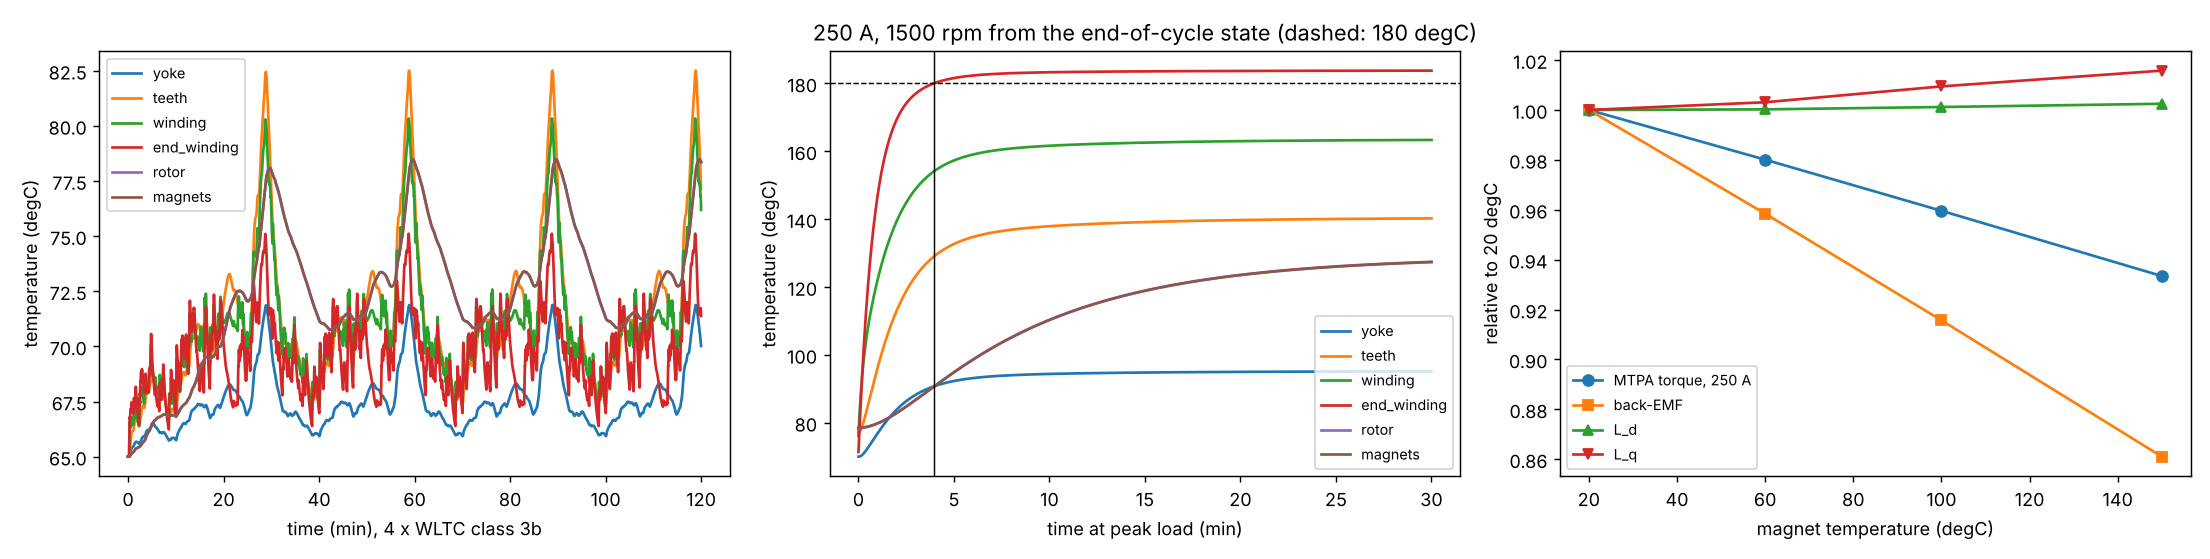
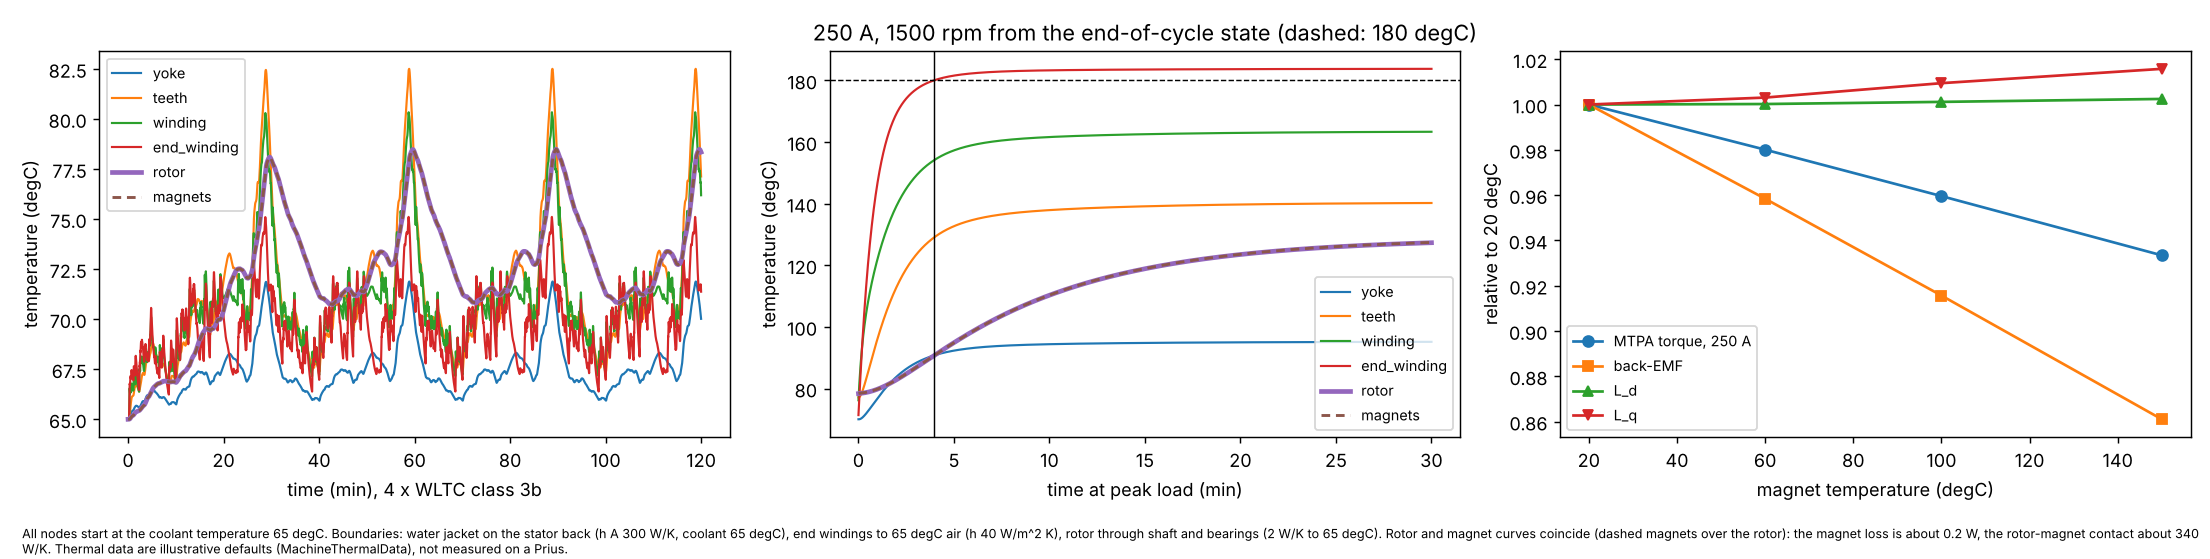
Machines: demagnetisation mesh study inside the magnets, area within 0.9 Hcj, thermal figure caption, magnet grade of the real car unknown

diff --git a/examples/electrodynamics/13_prius_thermal.py b/examples/electrodynamics/13_prius_thermal.py
@@ -37,6 +37,7 @@ from pinneapple_simulation.electromagnetics.machines.drive import (
 from pinneapple_simulation.electromagnetics.machines.thermal import (
     NDFEB_HCJ_MIN_KAM,
     demagnetisation_margin,
+    demagnetisation_refinement,
     intrinsic_coercivity,
     machine_network,
     magnet_temperature_sweep,
@@ -129,6 +130,14 @@ def main() -> dict:
             print(f"{label}, grade {grade}: Hcj {Hcj / 1e3:.0f} kA/m, worst reverse field {d['H_rev_max'] / 1e3:.0f} "
                   f"kA/m, demagnetised fraction {d['demagnetised_fraction']:.4f}", flush=True)
             maps[(label, grade)] = (ms, d)
+    hcj = {gr: intrinsic_coercivity(NDFEB_HCJ_MIN_KAM[gr] * 1e3, T_mag, BETA_HCJ) for gr in ("N", "M", "H", "SH", "UH")}
+    study = demagnetisation_refinement(g, T_mag, cases, hcj, n_gap=N_GAP)
+    for lv in study:
+        print(f"grading {lv['grading']}: {lv['magnet_elements']} magnet elements, "
+              f"{1e3 * lv['magnet_element_size_m']:.2f} mm;",
+              {c: {gr: (round(v["ratio_max"], 3), round(v["demagnetised_fraction"], 4),
+                        round(v["fraction_above_margin"], 4)) for gr, v in r.items()} for c, r in lv["cases"].items()},
+              flush=True)
     res = {"magnet_temperature_sweep": sweep, "iron_split": split, "wltc_cycles": cycles,
            "peak_temperatures_C": hot,
            "mean_losses_W": {"copper": float(np.mean(E["loss_copper"])), "iron": float(np.mean(E["loss_iron"])),
@@ -136,15 +145,16 @@ def main() -> dict:
            "peak_load": {"torque_Nm": op["T"], "rpm": 1500, "copper_W": op["copper"], "iron_W": op["iron"],
                          "magnet_W": op["magnet"], "time_to_180C_winding_s": t_limit},
            "demagnetisation": {"magnet_temperature_C": T_mag, "beta_Hcj_per_K": BETA_HCJ,
-                               "short_circuit_peak_estimate_A": i_sc, "cases": demag},
+                               "short_circuit_peak_estimate_A": i_sc, "cases": demag,
+                               "mesh_refinement": study},
            "seconds": time.perf_counter() - t0}
     OUT.mkdir(exist_ok=True)
     (OUT / "13_prius_thermal.json").write_text(json.dumps(res, indent=1, default=float))
-    _figures(times, T, net.names, ts, Tp, t_limit, sweep, maps, m, list(cases))
+    _figures(times, T, net.names, ts, Tp, t_limit, sweep, maps, m, list(cases), study, T0)
     return res
 
 
-def _figures(times, T, names, ts, Tp, t_limit, sweep, maps, m, labels):
+def _figures(times, T, names, ts, Tp, t_limit, sweep, maps, m, labels, study, T0):
     import matplotlib
 
     matplotlib.use("Agg")
@@ -153,8 +163,10 @@ def _figures(times, T, names, ts, Tp, t_limit, sweep, maps, m, labels):
 
     fig, ax = plt.subplots(1, 3, figsize=(17, 4.3))
     for i, nm in enumerate(names):
-        ax[0].plot(times / 60, T[:, i], label=nm)
-        ax[1].plot(ts / 60, Tp[:, i], label=nm)
+        # rotor and magnets coincide (contact conductance ~340 W/K against ~0.2 W magnet loss): magnets dashed on top
+        kw = {"ls": (0, (3, 2)), "lw": 1.6} if nm == "magnets" else {"lw": 2.6 if nm == "rotor" else 1.2}
+        ax[0].plot(times / 60, T[:, i], label=nm, **kw)
+        ax[1].plot(ts / 60, Tp[:, i], label=nm, **kw)
     ax[0].set_xlabel("time (min), 4 x WLTC class 3b")
     ax[0].set_ylabel("temperature (degC)")
     ax[0].legend(fontsize=8)
@@ -174,7 +186,13 @@ def _figures(times, T, names, ts, Tp, t_limit, sweep, maps, m, labels):
     ax[2].set_xlabel("magnet temperature (degC)")
     ax[2].set_ylabel("relative to 20 degC")
     ax[2].legend(fontsize=8)
-    fig.tight_layout()
+    fig.text(0.01, 0.01, f"All nodes start at the coolant temperature {T0:.0f} degC. Boundaries: water jacket on the "
+             f"stator back (h A 300 W/K, coolant {T0:.0f} degC), end windings to {T0:.0f} degC air (h 40 W/m^2 K), "
+             f"rotor through shaft and bearings (2 W/K to {T0:.0f} degC). Rotor and magnet curves coincide (dashed "
+             "magnets over the rotor): the magnet loss is about 0.2 W, the rotor-magnet contact about 340 W/K. "
+             "Thermal data are illustrative defaults (MachineThermalData), not measured on a Prius.", fontsize=7,
+             wrap=True)
+    fig.tight_layout(rect=(0, 0.07, 1, 1))
     fig.savefig(OUT / "13_prius_thermal.png", dpi=130)
     plt.close(fig)
 
@@ -199,6 +217,29 @@ def _figures(times, T, names, ts, Tp, t_limit, sweep, maps, m, labels):
         fig.colorbar(pc, ax=ax, shrink=0.8, label="H_rev / Hcj (> 1: irreversible)")
     fig.tight_layout()
     fig.savefig(OUT / "13_prius_demag.png", dpi=130)
+    plt.close(fig)
+
+    fig, axs = plt.subplots(1, 3, figsize=(16, 4.4))
+    h = np.array([1e3 * lv["magnet_element_size_m"] for lv in study])
+    for label, ls in zip(labels, ("-", "--"), strict=True):
+        for grade in ("M", "H", "SH"):
+            r = [lv["cases"][label][grade] for lv in study]
+            short = label.split(",")[0] if label.startswith("i_d") else "short circuit"
+            axs[0].plot(h, [x["ratio_max"] for x in r], "o" + ls, label=f"{grade}, {short}")
+            axs[1].plot(h, [100 * x["demagnetised_fraction"] for x in r], "o" + ls, label=f"{grade}, {short}")
+            axs[2].plot(h, [100 * x["fraction_above_margin"] for x in r], "o" + ls, label=f"{grade}, {short}")
+    for a, t in zip(axs, ("worst element H_rev / Hcj", "area with H_rev > Hcj (%)",
+                          "area with H_rev > 0.9 Hcj (%)"), strict=True):
+        a.set_xlabel("mean magnet element size (mm)")
+        a.set_title(t, fontsize=10)
+        a.invert_xaxis()
+    axs[0].axhline(1.0, color="k", lw=0.6)
+    axs[0].legend(fontsize=7)
+    fig.text(0.01, 0.01, "Mesh refinement inside the magnets (element-size growth away from the gap reduced at a fixed "
+             f"gap mesh of {N_GAP} nodes); magnets at {m.magnet_temperature:.0f} degC, rotor at 0. Solid: i_d = -250 A; "
+             "dashed: short-circuit peak estimate.", fontsize=7)
+    fig.tight_layout(rect=(0, 0.05, 1, 1))
+    fig.savefig(OUT / "13_prius_demag_mesh.png", dpi=130)
     plt.close(fig)
 
 

diff --git a/pinneapple_simulation/electromagnetics/machines/thermal.py b/pinneapple_simulation/electromagnetics/machines/thermal.py
@@ -28,7 +28,7 @@ from ..constants import MU0
 
 __all__ = ["ThermalNetwork", "cylinder_conductance", "machine_network", "MachineThermalData",
            "demagnetisation_margin", "reverse_field", "NDFEB_HCJ_MIN_KAM", "intrinsic_coercivity",
-           "magnet_temperature_sweep"]
+           "magnet_temperature_sweep", "demagnetisation_refinement"]
 
 # Minimum intrinsic coercivity of sintered NdFeB at 20 degC by grade suffix (the grade-letter convention of magnet
 # manufacturers): N 12, M 14, H 17, SH 20, UH 25, EH 30, AH 35 kOe (1 kOe = 79.577 kA/m).
@@ -191,18 +191,51 @@ def reverse_field(B: np.ndarray, angle: np.ndarray, Br: float, mu_r: float) -> n
     return -(Bm - Br) / (MU0 * mu_r)
 
 
-def demagnetisation_margin(machine, ms, Hcj: float) -> dict:
+def demagnetisation_margin(machine, ms, Hcj: float, margin_ratio: float = 0.9) -> dict:
     """Field opposing the magnetisation in every magnet element of the solution ``ms`` of ``machine`` (an
     :class:`~.pmsm.IPMMachine`), against ``Hcj`` (A/m at the magnet temperature; the knee of a square-loop NdFeB
     magnet). Returns the worst reverse field, the margin ``Hcj - H_rev`` (A/m), the demagnetised area fraction
-    (``H_rev > Hcj``), and per magnet element the element index and ``H_rev / Hcj``."""
+    (``H_rev > Hcj``), the area fraction within ``margin_ratio`` of the knee (``H_rev > margin_ratio Hcj``; less
+    sensitive to single corner elements than the knee crossing), and per magnet element the element index and
+    ``H_rev / Hcj``."""
     mask = machine._magnet
     H_rev = reverse_field(ms.B[mask], machine.mm.magnet_angle[mask] + ms.theta, machine.Br, machine.magnet.mu_r)
     area = ms.sol.geometry.area[mask]
     bad = H_rev > Hcj
     return {"H_rev_max": float(H_rev.max()), "margin": float(Hcj - H_rev.max()), "Hcj": float(Hcj),
             "demagnetised_fraction": float(area[bad].sum() / area.sum()),
+            "margin_ratio": float(margin_ratio),
+            "fraction_above_margin": float(area[H_rev > margin_ratio * Hcj].sum() / area.sum()),
             "elements": np.where(mask)[0], "ratio": H_rev / Hcj}
+
+
+def demagnetisation_refinement(geometry, magnet_temperature: float, currents_d: dict, Hcj: dict,
+                               gradings=(0.2, 0.1, 0.05, 0.025), n_gap: int = 960, margin_ratio: float = 0.9,
+                               magnet=None) -> list[dict]:
+    """Mesh study of :func:`demagnetisation_margin`: the machine meshed with decreasing ``grading`` (element size
+    growth away from the gap, :class:`~.mesher.MachineMesh`), so the magnet elements shrink at a fixed gap mesh.
+    ``currents_d``: label -> d-axis current (A, rotor at 0); ``Hcj``: grade -> intrinsic coercivity (A/m). Per level:
+    number and mean size of the magnet elements, and per case and grade the worst ``H_rev / Hcj``, the demagnetised
+    fraction and the fraction above ``margin_ratio``."""
+    from .pmsm import IPMMachine
+
+    out = []
+    for gr in gradings:
+        m = IPMMachine(geometry, n_gap=n_gap, grading=float(gr), magnet_temperature=magnet_temperature,
+                       **({"magnet": magnet} if magnet else {}))
+        level = {"grading": float(gr), "magnet_elements": int(m._magnet.sum()), "cases": {}}
+        for label, i_d in currents_d.items():
+            ms = m.solve(0.0, m.currents_dq(0.0, float(i_d), 0.0))
+            area = ms.sol.geometry.area[m._magnet]
+            level["magnet_element_size_m"] = float(np.sqrt(2.0 * area.mean()))
+            level["cases"][label] = {}
+            for grade, H in Hcj.items():
+                d = demagnetisation_margin(m, ms, H, margin_ratio)
+                level["cases"][label][grade] = {"ratio_max": float(d["ratio"].max()),
+                                                "demagnetised_fraction": d["demagnetised_fraction"],
+                                                "fraction_above_margin": d["fraction_above_margin"]}
+        out.append(level)
+    return out
 
 
 def magnet_temperature_sweep(geometry, temperatures, I_peak: float = 250.0, n_gap: int = 960,

diff --git a/tests/test_emachine_thermal.py b/tests/test_emachine_thermal.py
@@ -96,3 +96,16 @@ def test_thermal_verification_case(name):
 
     r = mv.run([name], quick=True)[0]
     assert r.passed, r.row() + " " + r.detail
+
+
+def test_demagnetisation_refinement_shrinks_the_magnet_elements():
+    from pinneapple_simulation.electromagnetics.machines import prius_2004
+    from pinneapple_simulation.electromagnetics.machines.thermal import demagnetisation_refinement
+
+    out = demagnetisation_refinement(prius_2004(), 100.0, {"d": -250.0}, {"H": 6.0e5}, gradings=(0.2, 0.1), n_gap=192)
+    assert out[1]["magnet_elements"] > out[0]["magnet_elements"]
+    assert out[1]["magnet_element_size_m"] < out[0]["magnet_element_size_m"]
+    for lv in out:
+        r = lv["cases"]["d"]["H"]
+        assert 0.0 <= r["demagnetised_fraction"] <= r["fraction_above_margin"] <= 1.0
+        assert r["ratio_max"] > 0

diff --git a/docs/guides/electromagnetics.md b/docs/guides/electromagnetics.md
@@ -406,9 +406,36 @@ three-phase short circuit estimated as `2 psi_pm / L_d = -165 A` (demagnetised a
 | SH | 651 | 2.4 % | 0 |
 | UH | 814 | 0 | 0 |
 
-The worst elements sit at the magnet corners next to the air-gap side and at the V tip (`13_prius_demag.png`
-shows the per-element ratio for grades H and SH in both cases). With these assumptions, the magnets need a grade of SH or above
-to survive full negative d-axis current when hot, and UH to keep every element below the knee.
+The worst elements sit at the outer magnet corners and at the V tip. `13_prius_demag.png` shows the per-element
+ratio for grades H and SH in both cases.
+
+The table above uses the default mesh: 784 magnet elements, 2.2 mm mean size. To test how much the fractions depend
+on the magnet mesh, `demagnetisation_refinement` refines the magnets over four levels. It lowers the element-size
+growth away from the gap, keeping the gap mesh fixed (`13_prius_demag_mesh.png`). Each cell gives the demagnetised
+area, the area above `0.9 Hcj` and the worst-element ratio `H_rev / Hcj`:
+
+| Magnet elements (size) | H, -250 A | SH, -250 A | UH, -250 A | M, -165 A | H, -165 A |
+|---|---|---|---|---|---|
+| 784 (2.24 mm) | 18.6 / 83.4 % / 1.30 | 2.4 / 7.6 % / 1.10 | 0 / 0 % / 0.88 | 3.2 / 10.9 % / 1.13 | 0 / 2.0 % / 0.93 |
+| 1920 (1.43 mm) | 19.4 / 85.5 % / 1.43 | 2.6 / 8.3 % / 1.21 | 0 / 0.7 % / 0.97 | 3.3 / 12.3 % / 1.25 | 0.2 / 1.0 % / 1.03 |
+| 4224 (0.96 mm) | 18.6 / 85.5 % / 1.46 | 2.0 / 7.5 % / 1.24 | 0 / 0.7 % / 0.99 | 4.1 / 14.0 % / 1.28 | 0.4 / 1.1 % / 1.06 |
+| 7216 (0.74 mm) | 18.8 / 85.1 % / 1.52 | 2.3 / 8.6 % / 1.29 | 0.2 / 0.5 % / 1.03 | 3.6 / 14.0 % / 1.33 | 0.3 / 1.0 % / 1.10 |
+
+The area fractions settle. The demagnetised fraction stays within 0.9 percentage points across the four levels,
+and within 0.6 between the two finest. The area above `0.9 Hcj` stays within 3.1 points across the levels (M at
+-165 A rises from 10.9 to 14.0 %) and within 1.1 between the two finest. The worst-element ratio does not converge. It grows by 4 to 6 % at each level because the field is
+singular at the sharp corners where the magnet meets the pocket. A demagnetised fraction of a few tenths of a
+percent at the finest mesh is a corner effect of the same kind, as for UH at -250 A and H at the short circuit.
+
+The conclusions therefore rest on the area fractions, not on the worst element. When hot, grade H loses about
+19 % of the magnet area at the full d-axis current, and about 85 % of the area lies within 10 % of the knee. Grade
+SH loses about 2 %, with 8 % within 10 % of the knee. In UH, only the corners reach the knee. Corner-level
+demagnetisation is not resolved by this model: the real corners are rounded and their field is not singular.
+
+The grade rows are a comparison of candidate grades, not a statement about the real car. We found no accessible
+public source that states the grade of the 2004 Prius magnets. Neither does the pyleecan model this geometry comes
+from: it gives `Br` and `mu_r` only. So the "N demagnetises" row says nothing about the production motor, whose
+magnets were chosen by Toyota for its own current and temperature limits.
 
 The network and the demagnetisation field are checked against closed forms (`machines.verification`):
 
@@ -525,6 +552,8 @@ Notes from the same run:
   measured or fitted to a Prius; one temperature per node (no hot spot inside the slot, magnets uniform). `Hcj(T)`
   is the grade minimum with an assumed -0.55 %/K coefficient. The demagnetisation check is static, a square-loop
   knee test on the 2-D field (no recoil-line modelling, no partial demagnetisation of later operation). The
+  worst-element ratio does not converge under mesh refinement (field singular at the sharp magnet corners), so
+  only area fractions are reported as results. The
   short-circuit peak `2 psi_pm / L_d` is an estimate, not a transient simulation.
 * Drive: steady state only (no current-controller dynamics, no PWM ripple or harmonics losses), no inverter,
   mechanical or battery losses; the voltage limit is that of linear space-vector modulation.

diff --git a/CHANGELOG.md b/CHANGELOG.md
@@ -17,7 +17,8 @@ How this file is maintained is described in [CONTRIBUTING.md](CONTRIBUTING.md#ch
 - Thermal network and demagnetisation check of machines (`pinneapple_simulation.electromagnetics.machines.thermal`):
   lumped `ThermalNetwork` (steady state, backward Euler and trapezoidal transients), the seven-node
   `machine_network` of a water-jacketed machine, per-element demagnetisation margin against `Hcj(T)` of the NdFeB
-  grade letters, and `magnet_temperature_sweep` (MTPA torque, back-EMF, L_d, L_q against the magnet temperature).
+  grade letters with the area fraction within a margin of the knee, `demagnetisation_refinement` (mesh study inside
+  the magnets), and `magnet_temperature_sweep` (MTPA torque, back-EMF, L_d, L_q against the magnet temperature).
   Example `examples/electrodynamics/13_prius_thermal.py` (WLTC x 4 temperatures, peak-load time to 180 degC,
   demagnetisation maps), tests `tests/test_emachine_thermal.py`.
 - Drive model of synchronous machines (`pinneapple_simulation.electromagnetics.machines.drive`): FEA flux maps with
